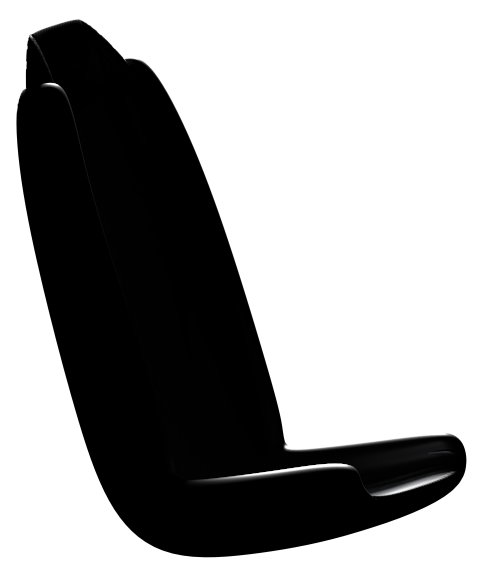
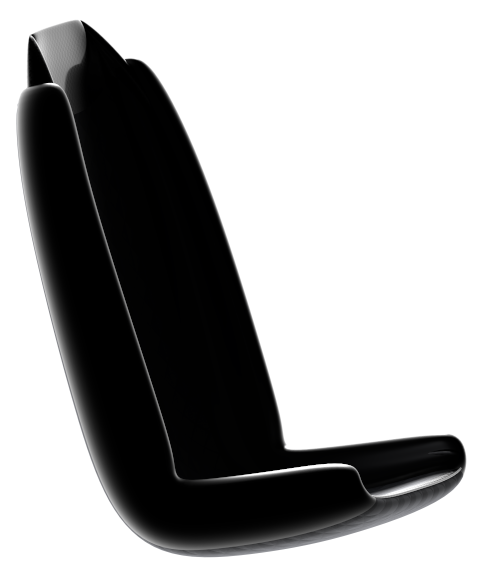
OSD driving-position assets, batch 2: low key, backlit rim passes (cloud lane)

diff --git a/assets/osd/ASSETS.md b/assets/osd/ASSETS.md
@@ -6,28 +6,28 @@ Built by `cargo run --release -p asset-forge -- --lane cloud --masters osd build
 
 | File | Kind | Size | Bytes | Generator (recipe + seed) | Licence | Used for |
 |---|---|---|---|---|---|---|
-| (no runtime file: rendered into the seat and the wheel) | seamless alcantara texture | 4096x4096 | master | comfyui:osd::NAP (SDXL base 1.0 + refiner when installed, 1024², dpmpp_2m karras, half-offset seam repaint at denoise 0.55, 4x-UltraSharp) seed=90101 prompt="extreme macro photograph of black alcantara suede microfibre upholstery, dense soft nap with faint directional brushing and gentle light and dark patches where the nap lies differently, a completely flat fabric surface filling the whole frame, top-down, even soft diffuse light, seamless tileable texture, physically based material scan" | CreativeML Open RAIL++-M output (SDXL); MIT (asset-forge) | the upholstery of the seat's quilted centre and the wheel's rim (one repeat per 0.24 m). Master `osd_alcantara_neutral_6151636539c3.png` |
-| `drive_dash.png` | the dash cut away at the driver's side (satin black, the cut a lighter satin), fixed; the full studio light (sRGB, straight alpha) | 388x338 | 26 KB | blender:osd::DRIVE (Cycles 256 samples, OptiX denoise, orthographic at yaw 24° pitch 8°, 2200 px per m box-filtered to 550) seed=90211 | MIT (asset-forge) | drawn by the OSD at (552, 152) from the view's top-left. Master `osd_drive/dash.png` |
-| `drive_wheel.png` | the D-shaped wheel (alcantara rim, carbon spokes) and its column, cut where it enters the dash; moves with the wheel offset; the full studio light (sRGB, straight alpha) | 276x240 | 27 KB | blender:osd::DRIVE (Cycles 256 samples, OptiX denoise, orthographic at yaw 24° pitch 8°, 2200 px per m box-filtered to 550) seed=90211 | MIT (asset-forge) | drawn by the OSD at (376, 194) from the view's top-left. Master `osd_drive/wheel.png` |
-| `drive_wheel_rim.png` | the D-shaped wheel (alcantara rim, carbon spokes) and its column, cut where it enters the dash; moves with the wheel offset; the rim light alone, white (the OSD tints it) (sRGB, straight alpha) | 276x240 | 18 KB | blender:osd::DRIVE (Cycles 256 samples, OptiX denoise, orthographic at yaw 24° pitch 8°, 2200 px per m box-filtered to 550) seed=90211 | MIT (asset-forge) | drawn by the OSD at (376, 194) from the view's top-left. Master `osd_drive/wheel_rim.png` |
-| `drive_seat.png` | the carbon bucket seat (quilted alcantara centre, leather bolsters); moves with the seat height; the full studio light (sRGB, straight alpha) | 492x572 | 118 KB | blender:osd::DRIVE (Cycles 256 samples, OptiX denoise, orthographic at yaw 24° pitch 8°, 2200 px per m box-filtered to 550) seed=90211 | MIT (asset-forge) | drawn by the OSD at (0, 0) from the view's top-left. Master `osd_drive/seat.png` |
-| `drive_seat_rim.png` | the carbon bucket seat (quilted alcantara centre, leather bolsters); moves with the seat height; the rim light alone, white (the OSD tints it) (sRGB, straight alpha) | 492x572 | 29 KB | blender:osd::DRIVE (Cycles 256 samples, OptiX denoise, orthographic at yaw 24° pitch 8°, 2200 px per m box-filtered to 550) seed=90211 | MIT (asset-forge) | drawn by the OSD at (0, 0) from the view's top-left. Master `osd_drive/seat_rim.png` |
+| (no runtime file: rendered into the seat and the wheel) | seamless alcantara texture | 4096x4096 | master | comfyui:osd::NAP (SDXL base 1.0 + refiner when installed, 1024², dpmpp_2m karras, half-offset seam repaint at denoise 0.55, 4x-UltraSharp) seed=90101 prompt="extreme macro photograph of black alcantara suede microfibre upholstery, dense soft nap with faint directional brushing and gentle light and dark patches where the nap lies differently, a completely flat fabric surface filling the whole frame, top-down, even soft diffuse light, seamless tileable texture, physically based material scan" | CreativeML Open RAIL++-M output (SDXL); MIT (asset-forge) | the upholstery of the seat's quilted centre and the wheel's rim (one repeat per 0.24 m). Master `comfyui/osd_alcantara_neutral_6151636539c3.png` |
+| `drive_dash.png` | the dash cut away at the driver's side (satin black, the cut a lighter satin), fixed; the full studio light (sRGB, straight alpha) | 388x338 | 21 KB | blender:osd::DRIVE (Cycles 256 samples, OptiX denoise, orthographic at yaw 24° pitch 8°, 2200 px per m box-filtered to 550) seed=90211 | MIT (asset-forge) | drawn by the OSD at (552, 152) from the view's top-left. Master `osd_drive/dash.png` |
+| `drive_wheel.png` | the D-shaped wheel (alcantara rim, carbon spokes) and its column, cut where it enters the dash; moves with the wheel offset; the full studio light (sRGB, straight alpha) | 276x240 | 23 KB | blender:osd::DRIVE (Cycles 256 samples, OptiX denoise, orthographic at yaw 24° pitch 8°, 2200 px per m box-filtered to 550) seed=90211 | MIT (asset-forge) | drawn by the OSD at (376, 194) from the view's top-left. Master `osd_drive/wheel.png` |
+| `drive_wheel_rim.png` | the D-shaped wheel (alcantara rim, carbon spokes) and its column, cut where it enters the dash; moves with the wheel offset; the rim light alone, white (the OSD tints it) (sRGB, straight alpha) | 276x240 | 24 KB | blender:osd::DRIVE (Cycles 256 samples, OptiX denoise, orthographic at yaw 24° pitch 8°, 2200 px per m box-filtered to 550) seed=90211 | MIT (asset-forge) | drawn by the OSD at (376, 194) from the view's top-left. Master `osd_drive/wheel_rim.png` |
+| `drive_seat.png` | the carbon bucket seat (quilted alcantara centre, leather bolsters); moves with the seat height; the full studio light (sRGB, straight alpha) | 492x572 | 101 KB | blender:osd::DRIVE (Cycles 256 samples, OptiX denoise, orthographic at yaw 24° pitch 8°, 2200 px per m box-filtered to 550) seed=90211 | MIT (asset-forge) | drawn by the OSD at (0, 0) from the view's top-left. Master `osd_drive/seat.png` |
+| `drive_seat_rim.png` | the carbon bucket seat (quilted alcantara centre, leather bolsters); moves with the seat height; the rim light alone, white (the OSD tints it) (sRGB, straight alpha) | 492x572 | 57 KB | blender:osd::DRIVE (Cycles 256 samples, OptiX denoise, orthographic at yaw 24° pitch 8°, 2200 px per m box-filtered to 550) seed=90211 | MIT (asset-forge) | drawn by the OSD at (0, 0) from the view's top-left. Master `osd_drive/seat_rim.png` |
 
 The view is 957x572 px at 550 px per m (orthographic, yaw 24°, pitch 8°). The driver's eye at seat height 0, (-0.02, 0, 0.66) m from the H-point, lands at (193.45, 151.41) px; `crates/fh6-osd/src/drive.rs` mirrors these numbers.
 
 ## 4K masters (Google Drive, `FH6 WheelDash v2 - 4K Masters/osd/`)
 
-Copied by `--masters osd`: the Blender outputs into `osd_drive/` (16-bit PNG, 4x the OSD's scale), the ComfyUI master into `comfyui/`, and a `*_preview.png` beside each for the tracker.
+Copied by `--masters osd`: the Blender outputs into `osd_drive/` (16-bit PNG, 4x the OSD's scale), both textures into `comfyui/` (the ComfyUI lane also leaves its raw output there under ComfyUI's own name the first time it runs), and a `*_preview.png` beside each for the tracker.
 
 | Master | What it is |
 |---|---|
-| `osd_alcantara.png` | alcantara (ComfyUI, seamless 4096 px) |
-| `osd_alcantara_neutral_6151636539c3.png` | alcantara made neutral (luminance only, mid-grey mean, fixed spread): the file Blender reads |
-| `dash.png` | dash, the full studio light |
-| `wheel.png` | wheel, the full studio light |
-| `wheel_rim.png` | wheel, the rim light alone, white (the OSD tints it) |
-| `seat.png` | seat, the full studio light |
-| `seat_rim.png` | seat, the rim light alone, white (the OSD tints it) |
-| `view.png` | the whole driving position at seat height 0 and wheel offset 0 (the hero still) |
+| `comfyui/osd_alcantara.png` | alcantara (ComfyUI, seamless 4096 px) |
+| `comfyui/osd_alcantara_neutral_6151636539c3.png` | alcantara made neutral (luminance only, mid-grey mean, fixed spread): the file Blender reads |
+| `osd_drive/dash.png` | dash, the full studio light |
+| `osd_drive/wheel.png` | wheel, the full studio light |
+| `osd_drive/wheel_rim.png` | wheel, the rim light alone, white (the OSD tints it) |
+| `osd_drive/seat.png` | seat, the full studio light |
+| `osd_drive/seat_rim.png` | seat, the rim light alone, white (the OSD tints it) |
+| `osd_drive/view.png` | the whole driving position at seat height 0 and wheel offset 0 (the hero still) |
 
 8 preview(s) written.
